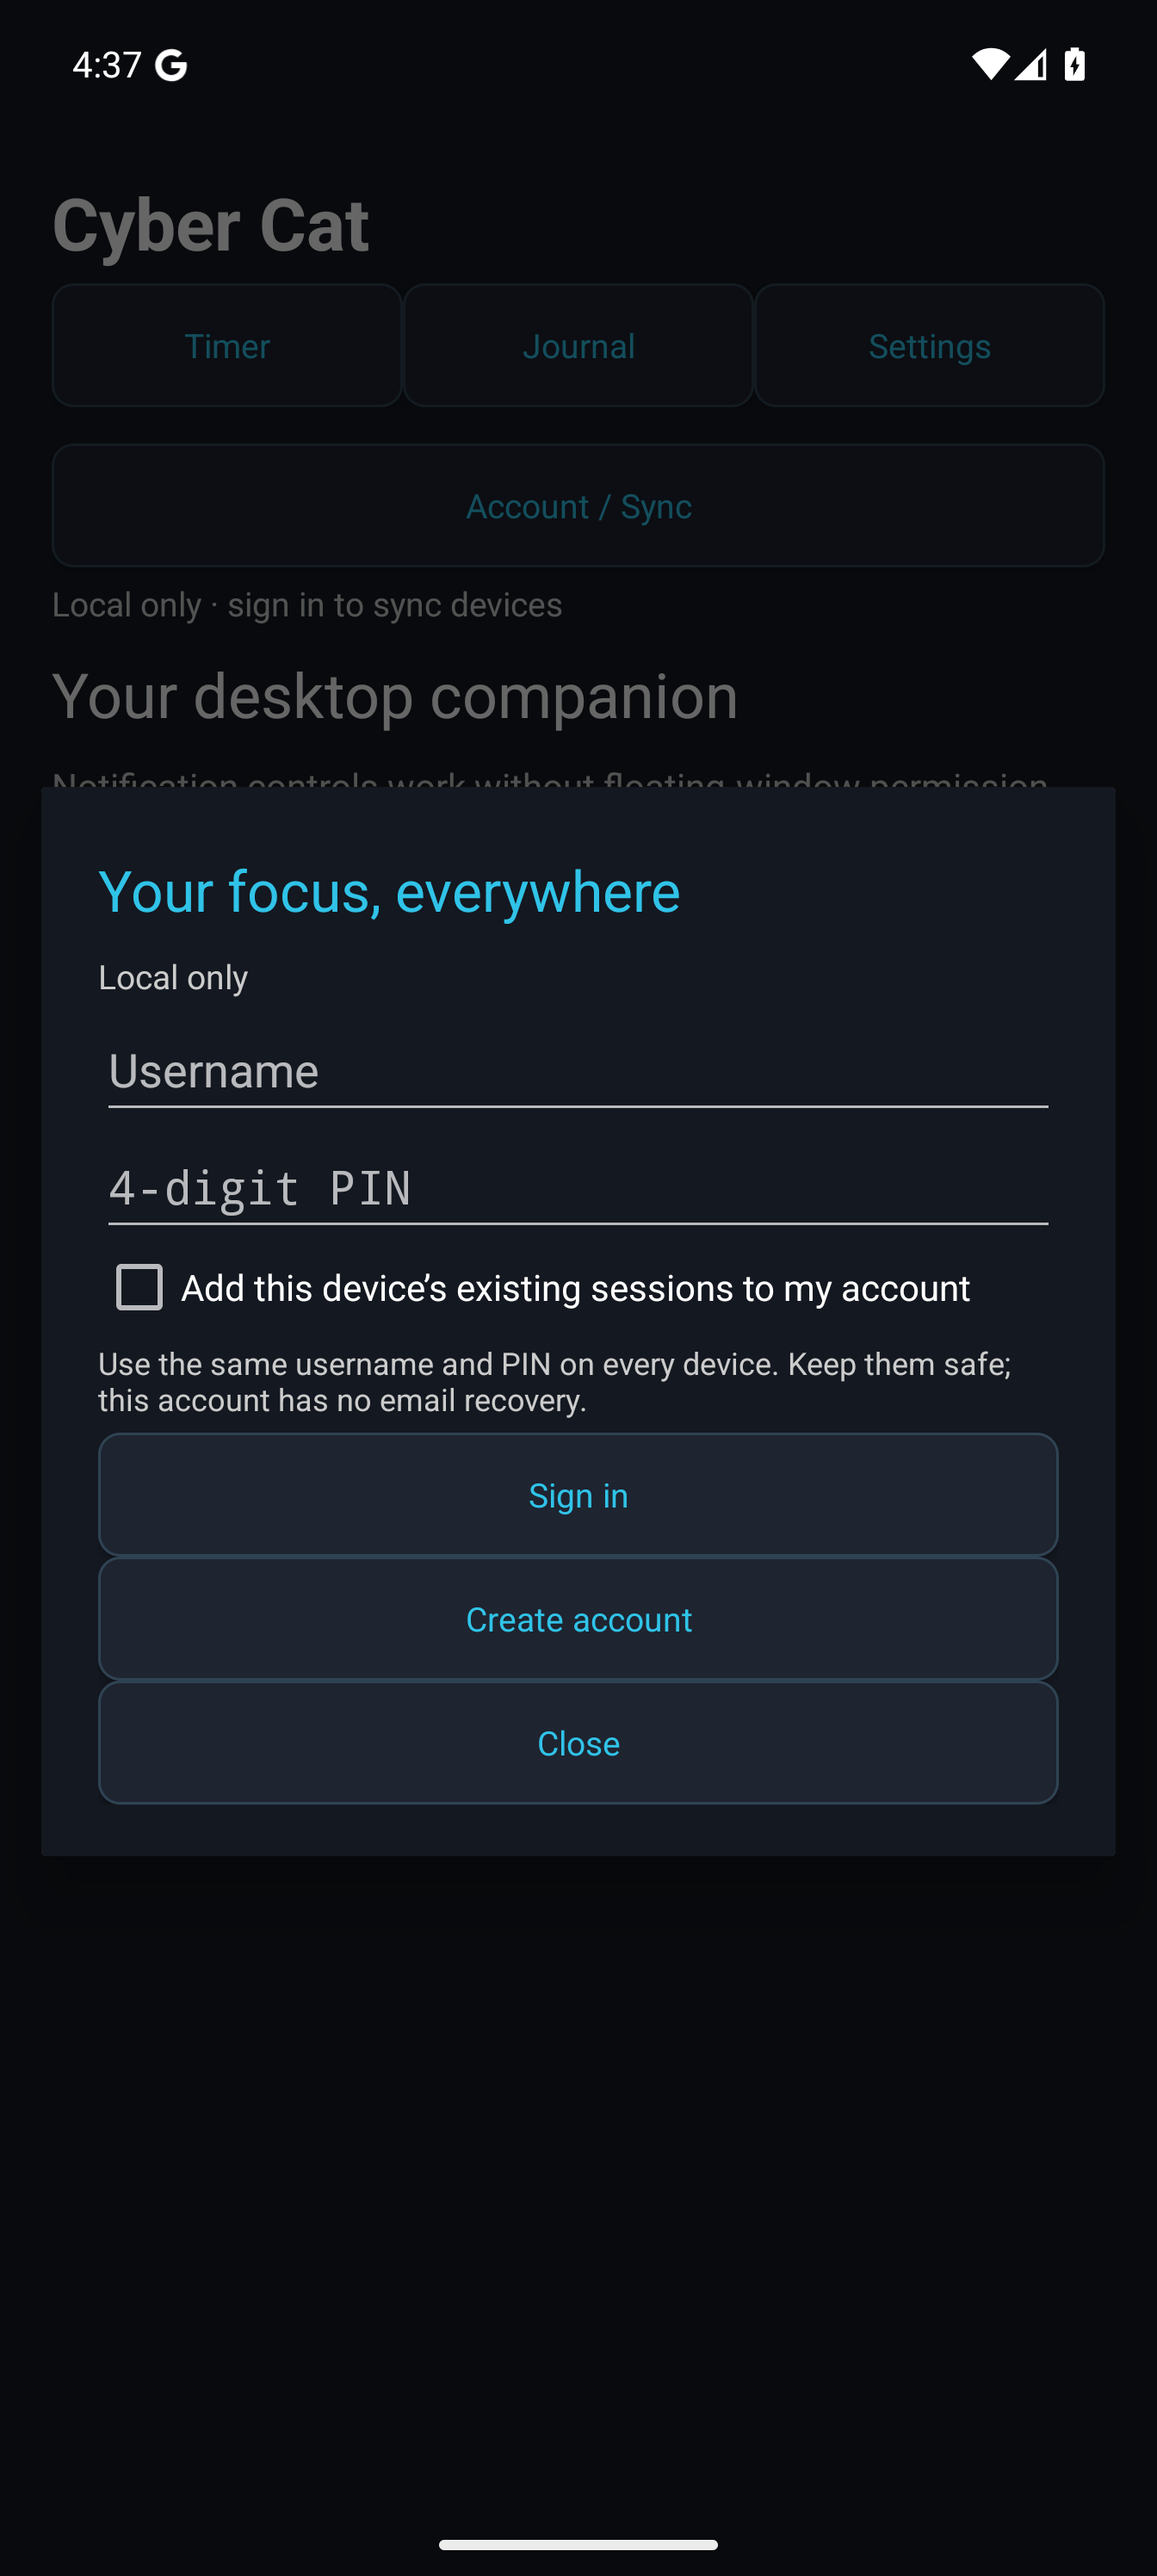
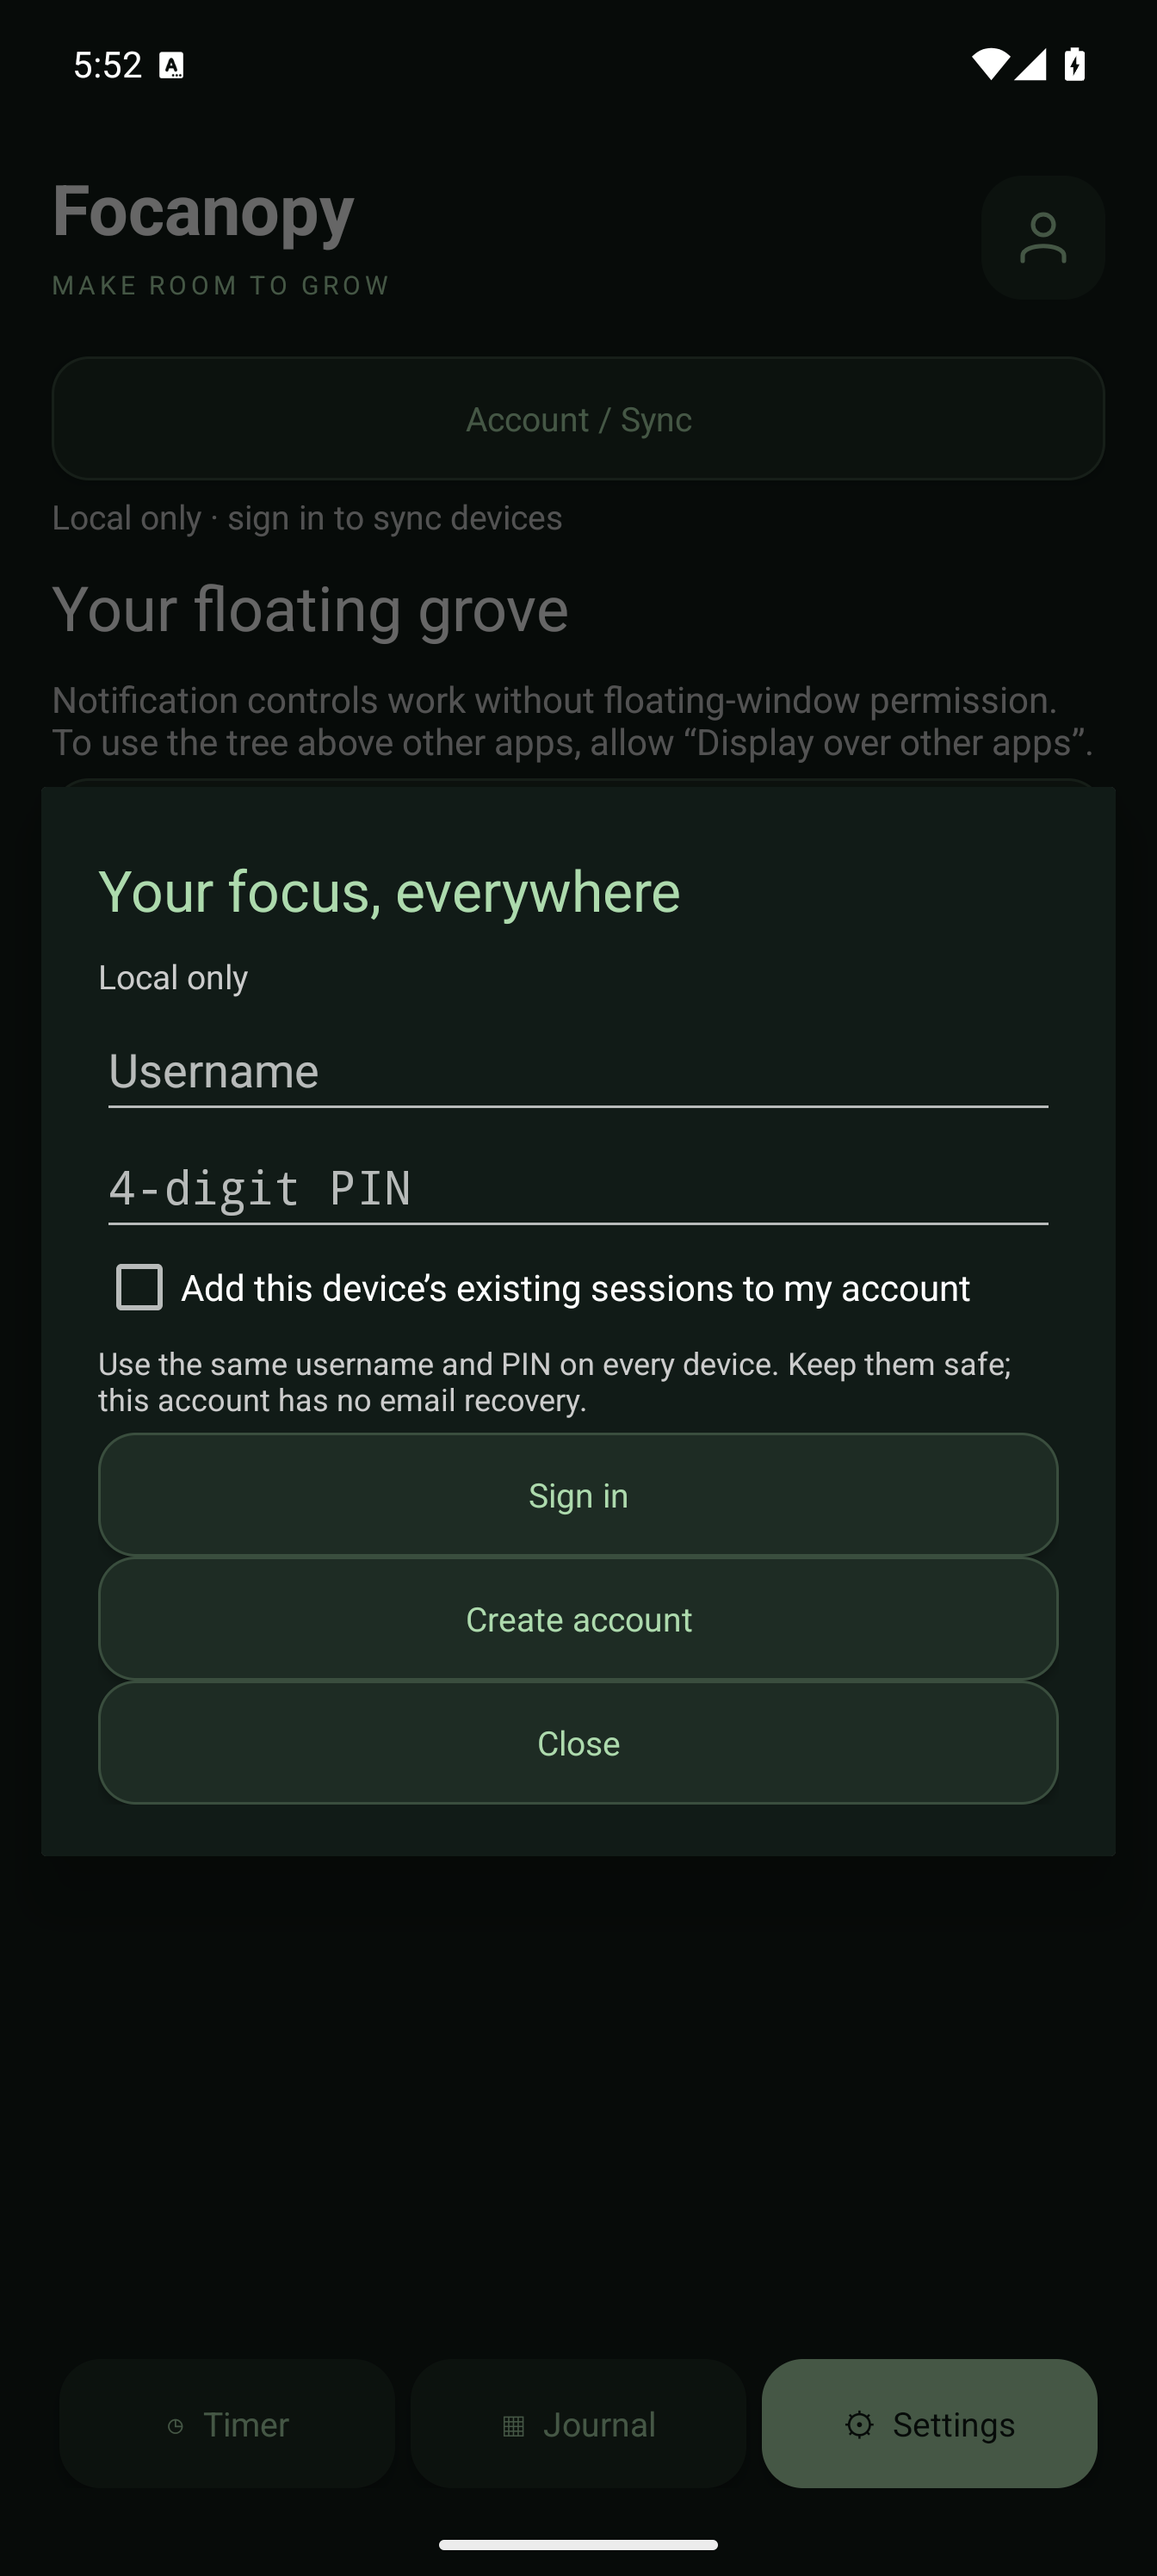
Polish Android calendar density and add fresh Focanopy MVP screenshots

diff --git a/android/app/src/main/java/com/cybercat/stopwatch/MainActivity.kt b/android/app/src/main/java/com/cybercat/stopwatch/MainActivity.kt
@@ -126,7 +126,7 @@ class MainActivity: Activity() {
             title.addView(text("Focanopy",27f).apply { typeface=Typeface.DEFAULT_BOLD; setPadding(0,0,0,0) })
             title.addView(text("MAKE ROOM TO GROW",10f,cyan).apply { letterSpacing=.16f })
             row.addView(title,LinearLayout.LayoutParams(0,-2,1f))
-            row.addView(button("◎","Account / Sync") { accountDialog() },LinearLayout.LayoutParams(dp(48),dp(48)))
+            row.addView(ImageButton(this).apply { setImageResource(R.drawable.ic_account); contentDescription="Account / Sync"; background=card(); setPadding(dp(12),dp(12),dp(12),dp(12)); setOnClickListener { safe { accountDialog() } } },LinearLayout.LayoutParams(dp(48),dp(48)))
         }
         val scroll=ScrollView(this).apply { isFillViewport=true; clipToPadding=false }; scroller=scroll
         root=LinearLayout(this).apply { orientation=LinearLayout.VERTICAL; setPadding(0,dp(16),0,dp(18)) }
@@ -219,14 +219,14 @@ class MainActivity: Activity() {
         val grid=GridLayout(this).apply { columnCount=7 }
         for(day in listOf("M","T","W","T","F","S","S")) grid.addView(text(day,12f,Color.LTGRAY).apply { gravity=Gravity.CENTER },GridLayout.LayoutParams().apply { width=0; height=dp(30); columnSpec=GridLayout.spec(GridLayout.UNDEFINED,1f) })
         val start=month.atDay(1).minusDays((month.atDay(1).dayOfWeek.value-1).toLong())
-        for(index in 0..41) {
+        for(index in 0 until Forest.calendarCells(month.atDay(1).dayOfWeek.value-1,month.lengthOfMonth())) {
             val day=start.plusDays(index.toLong()); val sum=total(recordsFor(day))
             val cell=TextView(this).apply {
                 text="${day.dayOfMonth}\n${if(sum>0) focusText(sum) else "—"}\n${Forest.cell(sum)}"; textSize=10f; gravity=Gravity.CENTER; includeFontPadding=false
                 setTextColor(if(YearMonth.from(day)!=month) Color.GRAY else if(Forest.garden(sum)) Color.rgb(238,212,151) else Color.WHITE)
                 background=card(if(day==selected) Color.rgb(57,91,61) else if(sum>0) Color.rgb(35,60,43) else surface)
                 contentDescription=day.toString()+", "+focusText(sum)+" tracked, "+Forest.text(sum)+(if(Forest.garden(sum))", garden" else "")
-                setOnClickListener { selected=day; scope="Day"; render() }
+                setOnClickListener { selected=day; month=YearMonth.from(day); scope="Day"; render() }
             }
             grid.addView(cell,GridLayout.LayoutParams().apply { width=0; height=dp(68); columnSpec=GridLayout.spec(GridLayout.UNDEFINED,1f); setMargins(dp(2),dp(2),dp(2),dp(2)) })
         }; root.addView(grid)

diff --git a/android/app/src/test/java/com/cybercat/stopwatch/ForestTest.kt b/android/app/src/test/java/com/cybercat/stopwatch/ForestTest.kt
@@ -2,6 +2,13 @@ package com.cybercat.stopwatch
 import org.junit.Assert.*
 import org.junit.Test
 class ForestTest {
+ @Test fun calendarFitsEveryMonth() {
+  for(year in listOf(2024,2026)) for(month in 1..12) {
+   val value=java.time.YearMonth.of(year,month);val offset=value.atDay(1).dayOfWeek.value-1;val cells=Forest.calendarCells(offset,value.lengthOfMonth())
+   assertTrue(cells in 28..42);assertEquals(0,cells%7);assertTrue(cells>=offset+value.lengthOfMonth());assertTrue(cells-offset-value.lengthOfMonth()<7)
+  }
+  assertEquals(28,Forest.calendarCells(0,28));assertEquals(42,Forest.calendarCells(6,31))
+ }
  @Test fun nextTreeProgress() {
   assertEquals("60 min to your next tree",Forest.nextTreeText(0)); assertEquals("30 min to your next tree",Forest.nextTreeText(1800000)); assertEquals("1 min to your next tree",Forest.nextTreeText(3599999)); assertEquals("60 min to your next tree",Forest.nextTreeText(Forest.HOUR))
  }

diff --git a/android/app/src/main/java/com/cybercat/stopwatch/Forest.kt b/android/app/src/main/java/com/cybercat/stopwatch/Forest.kt
@@ -5,6 +5,7 @@ object Forest {
     fun trees(ms:Long)=ms.coerceAtLeast(0)/HOUR
     fun garden(ms:Long)=ms>=GARDEN
     fun text(ms:Long):String { val n=trees(ms); return "$n tree${if(n==1L)"" else "s"}" }
+    fun calendarCells(mondayOffset:Int,days:Int)=((mondayOffset+days+6)/7)*7
     fun nextTreeText(ms:Long):String { val remaining=HOUR-ms.coerceAtLeast(0)%HOUR; val minutes=(remaining+59999)/60000; return "$minutes min to your next tree" }
     fun cell(ms:Long)=if(garden(ms))"Garden" else if(trees(ms)>0)text(ms) else if(ms>0)"Growing" else "—"
     fun summary(ms:Long,daily:Collection<Long>):String {
